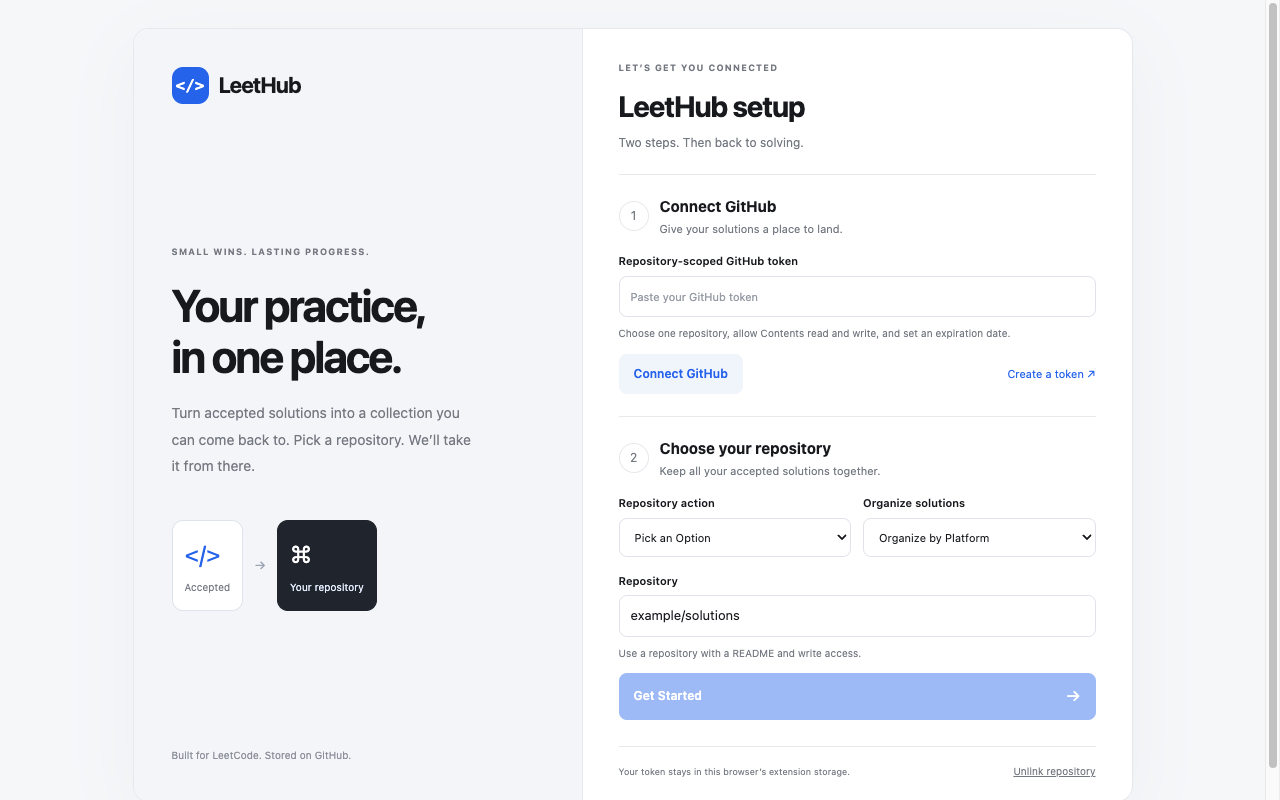
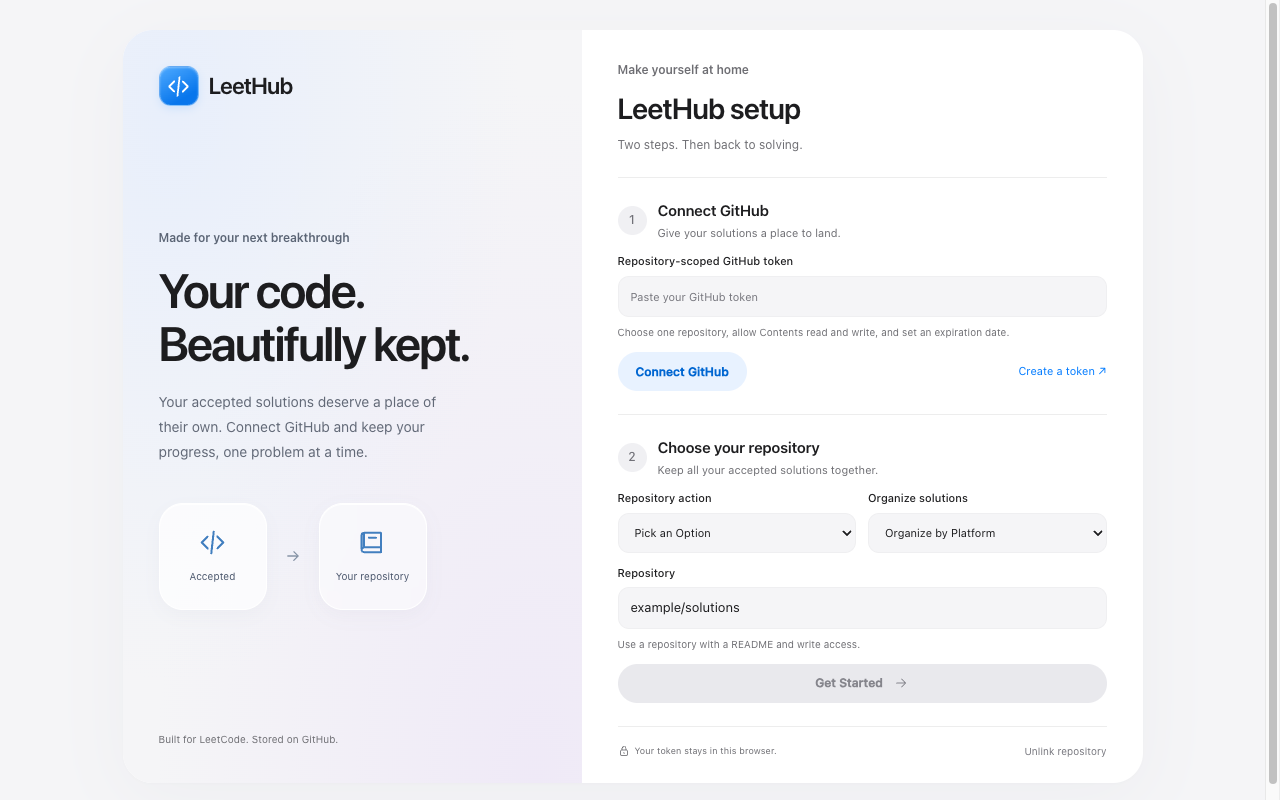
feat: refine Apple-inspired UI and verify live submission sync

diff --git a/src/css/app.css b/src/css/app.css
@@ -1,77 +1,51 @@
 @charset "UTF-8";
-:root { color-scheme: light; --ink: #17191d; --muted: #747881; --line: #e6e8ec; --brand: #2563eb; --paper: #f6f7f9; --accent: #ffffff; }
+:root { color-scheme: light; --ink: #1d1d1f; --muted: #6e6e73; --line: rgba(0,0,0,.07); --tint: #007aff; --surface: #fff; }
 * { box-sizing: border-box; }
-body { margin: 0; background: var(--paper); color: var(--ink); font: 13px/1.5 -apple-system, BlinkMacSystemFont, 'Segoe UI', sans-serif; }
-a { color: var(--brand); text-decoration: none; }
-a:hover { text-decoration: underline; }
-button, input, select { font: inherit; }
-button, .button-link { cursor: pointer; transition: background .15s, transform .15s; }
-button:disabled { cursor: default; opacity: .45; }
-button:focus-visible, a:focus-visible, input:focus-visible, select:focus-visible { outline: 3px solid #93b4ff; outline-offset: 3px; }
-h1, h2, h3, p { margin: 0; }
-.eyebrow { font-size: 9px; font-weight: 700; letter-spacing: 1.15px; color: var(--muted); }
-.small-muted { color: var(--muted); font-size: 11px; }
-.muted { color: var(--muted); }
+body { margin: 0; color: var(--ink); background: #f5f5f7; font: 13px/1.5 -apple-system, BlinkMacSystemFont, 'Helvetica Neue', 'Segoe UI', sans-serif; -webkit-font-smoothing: antialiased; }
+h1,h2,h3,p { margin: 0; }
+a { color: var(--tint); text-decoration: none; }a:hover { text-decoration: underline; }
+button,input,select { font: inherit; }
+button,a,input,select { -webkit-tap-highlight-color: transparent; }
+button { cursor: pointer; }button:disabled { cursor: default; }
+button:focus-visible,a:focus-visible,input:focus-visible,select:focus-visible { outline: 3px solid #007aff66; outline-offset: 3px; }
+.icon { flex-shrink: 0; vertical-align: middle; }
+.eyebrow { font-size: 12px; font-weight: 600; color: var(--muted); letter-spacing: -.1px; }
+.small-muted { font-size: 11px; color: #6e6e73; }.muted { color: var(--muted); }
 .brand { display: flex; align-items: center; gap: 10px; }
-.brand-mark { font-family: ui-monospace, SFMono-Regular, monospace; font-weight: 700; width: 37px; height: 37px; border-radius: 11px; background: var(--brand); color: var(--accent); display: grid; place-items: center; font-size: 16px; line-height: 1; }
-.brand h1 { font-size: 20px; font-weight: 750; letter-spacing: -.7px; line-height: 1.2; }
-.brand .eyebrow { font-size: 7px; letter-spacing: 1.4px; }
-.brand-row { display: flex; align-items: center; justify-content: space-between; margin-bottom: 24px; }
-.icon-button { height: 33px; width: 33px; display: grid; place-items: center; font-size: 20px; border: 1px solid var(--line); border-radius: 50%; color: var(--muted); }
-.icon-button:hover { background: #f0f3f8; text-decoration: none; }
-.popup { width: 380px; padding: 22px 22px 14px; background: #fafbfc; }
-.repository-card, .progress-card, .manual-card { border: 1px solid var(--line); border-radius: 12px; background: #fff; margin-bottom: 12px; padding: 17px; }
-.repository-card { background: #ffffff; border-color: #e6e8ec; }
+.brand-mark { width: 40px; height: 40px; border-radius: 12px; display: grid; place-items: center; color: #fff; background: linear-gradient(150deg,#4eaaff,#0876ec 75%); border: 1px solid #ffffff60; box-shadow: inset 0 1px 2px #ffffff50,0 3px 8px #007aff1c; }.brand-mark .icon { width: 25px; height: 25px; }
+.brand h1 { font-size: 21px; font-weight: 650; line-height: 1.15; letter-spacing: -.75px; }.brand-caption { display: block; font-size: 11px; margin-top: 3px; color: var(--muted); }
+.brand-row { display: flex; align-items: center; justify-content: space-between; margin-bottom: 16px; }
+.icon-button { width: 36px; height: 36px; display: grid; place-items: center; border-radius: 50%; color: #6e6e73; background: #ffffffa6; border: 1px solid #fff; box-shadow: 0 2px 8px #00000006,inset 0 1px 0 #fff; backdrop-filter: blur(16px); }.icon-button:hover { color: var(--ink); background: #fff; text-decoration: none; }.icon-button .icon { width: 18px; height: 18px; }
+.popup-window { width: 396px; padding: 8px; background: #fff; }
+.popup { width: 100%; padding: 18px 18px 12px; max-height: 584px; overflow-y: auto; border: 1px solid #00000006; border-radius: 24px; scrollbar-width: thin; scrollbar-color: #c7c7ce transparent; background: radial-gradient(ellipse at 10% -10%,#daeaff88,transparent 48%),radial-gradient(ellipse at 100% 100%,#ece5ff55,transparent 40%),#f5f5f7; }
+.popup::-webkit-scrollbar { width: 6px; }
+.popup::-webkit-scrollbar-track { background: transparent; margin-block: 22px; }
+.popup::-webkit-scrollbar-thumb { border-radius: 6px; background: #c7c7ce; }
+.repository-card,.progress-card,.manual-card { background: var(--surface); border-radius: 20px; padding: 14px; margin-bottom: 10px; box-shadow: 0 2px 8px #00000003; }
 .section-top { display: flex; align-items: center; justify-content: space-between; gap: 8px; }
-.status-badge { display: inline-flex; align-items: center; gap: 5px; border-radius: 20px; background: #f1f2f4; color: #6b7280; padding: 3px 8px; font-size: 10px; font-weight: 600; }
-.status-badge.active { background: #eff4ff; color: #2563eb; }
-.status-dot { width: 5px; height: 5px; border-radius: 50%; background: currentColor; display: inline-block; }
-.repository-name { color: var(--ink); display: block; margin: 13px 0 17px; font-size: 16px; font-weight: 650; letter-spacing: -.3px; overflow-wrap: anywhere; }
-.sync-control { border-top: 1px solid #edf0f4; padding-top: 13px; display: flex; align-items: center; justify-content: space-between; }
-.sync-control strong { font-size: 12px; }.sync-control p { color: var(--muted); font-size: 11px; margin-top: 2px; }
-.switch { display: inline-flex; position: relative; margin: 0; }
-.switch input { opacity: 0; position: absolute; width: 38px; height: 22px; margin: 0; cursor: pointer; z-index: 1; }
-.switch-track { display: block; width: 38px; height: 22px; background: #cbd0d8; border-radius: 20px; transition: background .2s; }
-.switch-track:after { content: ''; display: block; width: 16px; height: 16px; margin: 3px; background: white; border-radius: 50%; transition: transform .2s; box-shadow: 0 1px 3px #0002; }
-.switch input:checked + .switch-track { background: var(--brand); }.switch input:checked + .switch-track:after { transform: translateX(16px); }.switch input:focus-visible + .switch-track { outline: 3px solid #93b4ff; outline-offset: 3px; }
-.total { display: flex; align-items: baseline; gap: 9px; margin: 12px 0 16px; }.total strong { font-size: 38px; line-height: 1; font-weight: 600; letter-spacing: -2px; }.total span { color: var(--muted); font-size: 12px; }
-.difficulty-grid { display: grid; grid-template-columns: repeat(3,1fr); gap: 8px; }.difficulty { border-radius: 9px; padding: 8px 11px; display: flex; align-items: center; justify-content: space-between; font-size: 10px; }.difficulty strong { font-size: 15px; font-weight: 650; }.easy { color: #585e69; background: #f5f6f8; }.medium { color: #585e69; background: #f5f6f8; }.hard { color: #585e69; background: #f5f6f8; }
-.manual-card h2 { font-size: 14px; font-weight: 650; }.manual-card .muted { font-size: 11px; margin-top: 3px; }
-label { display: block; font-size: 11px; font-weight: 600; margin: 16px 0 6px; }
-input:not([type=checkbox]), select { width: 100%; min-height: 39px; border: 1px solid #e0e3e9; background: #ffffff; color: var(--ink); padding: 10px 11px; border-radius: 8px; outline: none; }
-input::placeholder { color: #969aa4; font-size: 11px; }input:focus, select:focus { border-color: #2563eb; background: #fff; }
-.primary, .secondary { border: 0; border-radius: 8px; padding: 11px 15px; font-weight: 600; font-size: 12px; display: inline-flex; align-items: center; justify-content: space-between; gap: 16px; }
-.primary { min-height: 42px; color: white; background: var(--brand); }.primary:hover:not(:disabled) { background: #1d4ed8; text-decoration: none; }.primary span { font-size: 17px; font-weight: 400; }.full-width { width: 100%; margin-top: 12px; }.secondary { background: #f0f4fb; color: var(--brand); }.secondary:hover:not(:disabled) { background: #e4edff; }
-.field-hint { font-size: 10px; color: var(--muted); margin-top: 8px; line-height: 1.6; }
-.latest-link { display: flex; justify-content: space-between; align-items: center; padding: 7px 4px; font-size: 11px; }.success-icon { margin-right: 7px; }
-.feedback { display: none; }.feedback.visible, .feedback.error { display: block; margin-top: 12px; border-radius: 8px; padding: 10px 12px; background: #f0f4fb; color: var(--brand); font-size: 11px; overflow-wrap: anywhere; }.feedback.error { background: #fff3f3; color: #b42332; }
-.popup-footer { font-size: 9px; color: #9499a3; display: flex; gap: 6px; align-items: center; justify-content: center; border-top: 1px solid var(--line); margin-top: 18px; padding-top: 12px; }
-.empty-state { text-align: center; padding: 20px 6px 30px; }.empty-state h2 { font-size: 27px; line-height: 1.2; letter-spacing: -1px; margin: 12px 0; }.empty-state p { font-size: 12px; color: var(--muted); line-height: 1.8; }.empty-state .button-link { margin: 24px 0 14px; width: 100%; }.empty-state > .small-muted { display: block; }
-.code-art { width: 100px; height: 106px; margin: 0 auto 27px; transform: rotate(-7deg); border: 1px solid #dce3ef; border-radius: 13px; background: #edf3ff; padding: 15px; box-shadow: 8px 8px 0 #e4e9f3; text-align: left; }.code-art span { font-size: 26px; font-weight: 600; color: var(--brand); }.art-line { height: 4px; background: #a9c1f4; border-radius: 5px; margin-top: 8px; }.art-line.short { width: 60%; }
-.welcome { display: grid; grid-template-columns: .9fr 1.1fr; max-width: 1000px; margin: 48px auto; border: 1px solid var(--line); border-radius: 16px; overflow: hidden; background: #fff; box-shadow: 0 18px 70px #14274b0a; }
-.welcome-story { border-right: 1px solid var(--line); padding: 38px; display: flex; flex-direction: column; background: #f4f5f8; }.welcome-story .brand strong { font-size: 22px; letter-spacing: -.8px; }.story-content { margin: auto 0; padding: 68px 0; }.story-content h1 { font-size: 45px; font-weight: 650; letter-spacing: -2px; line-height: 1.15; margin: 18px 0; }.story-content p { font-size: 14px; color: #747881; line-height: 1.9; max-width: 300px; }.story-footnote { color: #8b909b; font-size: 10px; }
-.flow-preview { display: flex; align-items: center; gap: 11px; margin-top: 40px; }.flow-source, .flow-destination { border: 1px solid #dfe3eb; background: #ffffff; border-radius: 11px; padding: 15px 12px; font-size: 10px; color: #747881; }.flow-source span, .flow-destination span { display: block; font-size: 24px; margin-bottom: 8px; color: var(--brand); }.flow-destination { background: #20242c; border-color: #20242c; color: #e6edff; }.flow-destination span { color: #ffffff; }.flow-arrow { color: #9aa3b3; }
-.setup-panel { padding: 38px 38px 25px; }.setup-header h2 { font-size: 29px; letter-spacing: -1px; margin: 8px 0 6px; }.setup-header p { font-size: 12px; }.setup-step { margin-top: 27px; padding-top: 24px; border-top: 1px solid var(--line); }.step-heading { display: flex; align-items: center; gap: 11px; }.step-heading h3 { font-size: 15px; }.step-heading p { font-size: 11px; color: var(--muted); margin-top: 3px; }.step-heading .status-badge { margin-left: auto; font-size: 9px; }.step-number { flex-shrink: 0; width: 30px; height: 30px; border: 1px solid var(--line); border-radius: 50%; display: grid; place-items: center; font-size: 12px; color: #747881; }.step-number.complete { background: #eff4ff; color: var(--brand); border-color: #dce7ff; }
-.auth-actions { display: flex; justify-content: space-between; align-items: center; gap: 8px; margin-top: 13px; }.auth-actions a { font-size: 11px; }.setup-fields { display: grid; grid-template-columns: 1fr 1fr; gap: 12px; }.setup-fields select { font-size: 11px; }.setup-footer { display: flex; justify-content: space-between; align-items: center; gap: 14px; border-top: 1px solid var(--line); margin-top: 26px; padding-top: 17px; font-size: 9px; color: var(--muted); }.text-button { background: none; border: none; color: var(--muted); padding: 0; font-size: 10px; text-decoration: underline; }
-@media (max-width: 760px) { .welcome { margin: 16px; grid-template-columns: 1fr; }.welcome-story { border-right: 1px solid var(--line); padding: 24px; }.story-content { padding: 25px 0; }.story-content h1 { font-size: 34px; }.flow-preview, .story-footnote { display: none; }.setup-panel { padding: 25px; } }
+.status-badge { display: inline-flex; gap: 5px; align-items: center; color: #6e6e73; font-size: 11px; font-weight: 500; padding: 3px 8px; background: #f5f5f7; border-radius: 20px; }.status-badge.active { color: #277b45; background: #edf8f0; }.status-dot { width: 5px; height: 5px; border-radius: 50%; background: currentColor; display: inline-block; }
+.repository-name { color: var(--ink); display: flex; align-items: center; gap: 10px; margin: 10px 0; font-size: 14px; font-weight: 550; letter-spacing: -.3px; }.repository-name > span { min-width: 0; overflow-wrap: anywhere; }.repository-name > .icon { color: #8e8e93; width: 18px; height: 18px; }.repository-name .repository-arrow { width: 14px; height: 14px; margin-left: auto; transform: rotate(-45deg); }
+.sync-control { border-top: 1px solid var(--line); padding-top: 12px; display: flex; align-items: center; justify-content: space-between; gap: 8px; }.sync-control strong { font-weight: 500; font-size: 12px; }.sync-control p { color: var(--muted); font-size: 10px; margin-top: 2px; }
+.switch { display: inline-flex; position: relative; margin: 0; }.switch input { opacity: 0; position: absolute; z-index: 1; width: 38px; height: 23px; margin: 0; cursor: pointer; }.switch-track { width: 38px; height: 23px; border-radius: 30px; background: #d5d5da; box-shadow: inset 0 1px 2px #00000009; transition: background .2s; }.switch-track:after { content: ''; display: block; width: 19px; height: 19px; margin: 2px; border-radius: 50%; background: #fff; box-shadow: 0 1px 4px #0002; transition: transform .2s; }.switch input:checked + .switch-track { background: #34c759; }.switch input:checked + .switch-track:after { transform: translateX(15px); }.switch input:focus-visible + .switch-track { outline: 3px solid #007aff66; outline-offset: 3px; }
+.progress-card { padding-bottom: 14px; }.total { display: flex; align-items: baseline; gap: 9px; margin: 7px 0 10px; }.total strong { font-size: 40px; line-height: 1.1; font-weight: 600; letter-spacing: -2px; font-variant-numeric: tabular-nums; }.total span { font-size: 12px; color: var(--muted); }
+.difficulty-grid { display: grid; grid-template-columns: repeat(3,1fr); }.difficulty { display: flex; flex-direction: column-reverse; gap: 2px; padding: 0 12px; border-left: 1px solid var(--line); }.difficulty:first-child { border: none; padding-left: 0; }.difficulty span { font-size: 10px; color: var(--muted); }.difficulty strong { font-size: 18px; line-height: 1.3; font-weight: 550; font-variant-numeric: tabular-nums; }
+.manual-card h2 { font-size: 15px; letter-spacing: -.3px; font-weight: 600; }.manual-card .muted { font-size: 11px; margin-top: 3px; }
+label { display: block; font-size: 11px; font-weight: 500; margin: 12px 0 6px; }
+input:not([type=checkbox]),select { display: block; width: 100%; min-height: 40px; border: 1px solid #00000006; border-radius: 11px; background: #f5f5f7; color: var(--ink); padding: 10px 12px; outline: none; transition: box-shadow .15s; }input::placeholder { font-size: 11px; color: #76767d; }input:focus,select:focus { box-shadow: 0 0 0 3px #007aff1a; border-color: #007aff70; }select { appearance: auto; }
+.primary,.secondary { display: inline-flex; justify-content: center; align-items: center; gap: 10px; border: none; border-radius: 24px; padding: 10px 18px; min-height: 39px; font-size: 12px; font-weight: 550; transition: background .15s,box-shadow .15s; }
+.primary { background: var(--tint); color: #fff; box-shadow: inset 0 1px 0 #ffffff30,0 2px 5px #007aff14; }.primary:hover:not(:disabled) { background: #0071e3; text-decoration: none; }.primary:disabled { color: #85858c; background: #e9e9ed; box-shadow: none; }.primary .icon { width: 16px; height: 16px; }.secondary { background: #e8f2ff; color: #0066d1; }.secondary:hover:not(:disabled) { background: #dbebff; }.secondary:disabled { opacity: .5; }.full-width { width: 100%; margin-top: 12px; }
+.field-hint { font-size: 10px; line-height: 1.6; color: var(--muted); margin-top: 7px; }
+.latest-link { display: flex; justify-content: space-between; align-items: center; font-size: 11px; padding: 4px 6px; }.latest-link > span { display: flex; align-items: center; gap: 6px; }.latest-link .icon { width: 15px; height: 15px; }.latest-link > .icon { transform: rotate(-45deg); }
+.feedback { display: none; }.feedback.visible,.feedback.error { display: block; padding: 11px 13px; margin-top: 12px; border-radius: 12px; font-size: 11px; color: #235c92; background: #e7f2ff; overflow-wrap: anywhere; }.feedback.error { color: #a33132; background: #fff0f0; }
+.popup-footer { display: flex; align-items: center; justify-content: center; gap: 5px; margin-top: 10px; font-size: 9px; color: var(--muted); }.popup-footer .icon { width: 10px; height: 10px; }
+.empty-state { text-align: center; padding: 20px 6px 26px; }.empty-state h2 { font-size: 28px; line-height: 1.2; letter-spacing: -1px; font-weight: 600; margin: 14px 0; }.empty-state p { color: var(--muted); font-size: 12px; line-height: 1.8; }.empty-state .button-link { display: flex; margin: 24px 0 12px; }.empty-state > .small-muted { display: block; }
+.code-art { width: 98px; height: 102px; padding: 17px; margin: 0 auto 24px; border-radius: 23px; color: var(--tint); background: linear-gradient(145deg,#ffffffd9,#edf4ffb3); border: 1px solid #fff; box-shadow: 0 8px 24px #17477812,inset 0 1px 0 #fff; }.code-art .icon { width: 32px; height: 32px; }.art-line { width: 100%; height: 4px; border-radius: 5px; background: #bfcfe3; margin-top: 8px; }.art-line.short { width: 60%; }
+.welcome { max-width: 1020px; display: grid; grid-template-columns: .9fr 1.1fr; margin: 30px auto; background: #fff; border-radius: 30px; overflow: hidden; box-shadow: 0 16px 70px #20305009,0 1px 3px #00000003; }
+.welcome-story { padding: 36px; display: flex; flex-direction: column; background: radial-gradient(ellipse at 10% 10%,#dce9ff85,transparent 60%),radial-gradient(ellipse at 90% 100%,#e9def780,transparent 65%),#f5f5f7; }.welcome-story .brand strong { font-size: 23px; font-weight: 600; letter-spacing: -.8px; }.story-content { margin: auto 0; padding: 60px 0; }.story-content .eyebrow { font-size: 12px; color: #5b6575; }.story-content h1 { font-size: 48px; font-weight: 600; line-height: 1.09; letter-spacing: -2.1px; margin: 17px 0 20px; }.story-content p { color: #626977; font-size: 14px; line-height: 1.8; max-width: 310px; }.story-footnote { color: var(--muted); font-size: 10px; }
+.flow-preview { display: flex; align-items: center; gap: 17px; margin-top: 38px; }.flow-source,.flow-destination { width: 108px; height: 107px; display: flex; flex-direction: column; justify-content: center; align-items: center; gap: 12px; color: #49556b; font-size: 10px; border-radius: 24px; background: #ffffffb0; border: 1px solid #fff; box-shadow: inset 0 1px 0 #fff,0 6px 18px #5060800a; }.flow-preview .icon:not(.flow-arrow) { width: 29px; height: 29px; color: #427fbf; }.flow-arrow { color: #8794a6; width: 18px; height: 18px; }.flow-destination { background: #ffffff78; backdrop-filter: blur(15px); }
+.setup-panel { padding: 30px 36px 24px; min-width: 0; }.setup-header h2 { font-size: 29px; font-weight: 600; letter-spacing: -.85px; margin: 7px 0 6px; }.setup-header p { font-size: 12px; }.setup-step { border-top: 1px solid var(--line); margin-top: 23px; padding-top: 21px; }.step-heading { display: flex; align-items: center; gap: 11px; }.step-heading h3 { font-size: 15px; font-weight: 600; letter-spacing: -.25px; }.step-heading p { font-size: 11px; color: var(--muted); margin-top: 3px; }.step-heading .status-badge { margin-left: auto; font-size: 9px; }.step-number { flex-shrink: 0; width: 29px; height: 29px; display: grid; place-items: center; background: #f0f0f3; color: #717178; border-radius: 50%; font-size: 12px; font-weight: 500; }.step-number.complete { color: #267e43; background: #edf8f0; }
+.auth-actions { display: flex; align-items: center; justify-content: space-between; gap: 12px; margin-top: 12px; }.auth-actions a { font-size: 11px; }.setup-fields { display: grid; grid-template-columns: 1fr 1fr; gap: 12px; }.setup-fields > div { min-width: 0; }.setup-fields select { font-size: 11px; }.setup-footer { display: flex; align-items: center; justify-content: space-between; flex-wrap: wrap; gap: 13px; margin-top: 23px; padding-top: 17px; border-top: 1px solid var(--line); color: var(--muted); font-size: 9px; }.setup-footer > span { display: flex; gap: 5px; align-items: center; }.setup-footer .icon { width: 12px; height: 12px; }.text-button { padding: 0; background: none; border: none; color: #76767d; font-size: 10px; }.text-button:hover { color: #333; }
+@media (max-width: 760px) { .welcome { margin: 16px; grid-template-columns: 1fr; border-radius: 24px; }.welcome-story { padding: 25px; }.story-content { padding: 25px 0; }.story-content h1 { font-size: 36px; }.flow-preview,.story-footnote { display: none; }.setup-panel { padding: 25px; } }
 @media (prefers-reduced-motion: reduce) { * { transition: none !important; } }
-
-.difficulty { border: 1px solid #eceef2; }.difficulty span::before { content: ""; display: inline-block; width: 4px; height: 4px; border-radius: 50%; background: #bcc3cf; margin-right: 5px; }.medium span::before { background: #7c8799; }.hard span::before { background: #394355; }
-.setup-footer { flex-wrap: wrap; }.setup-panel { min-width: 0; }.welcome-story { min-width: 0; }.setup-fields > div { min-width: 0; }
-
-/* Keep the complete connected view within Chrome's popup height limit. */
-.popup { padding: 18px 20px 12px; }
-.popup .brand-row { margin-bottom: 18px; }
-.popup .repository-card, .popup .progress-card, .popup .manual-card { padding: 14px; margin-bottom: 10px; }
-.popup .repository-name { margin: 10px 0 12px; }
-.popup .sync-control { padding-top: 10px; }
-.popup .total { margin: 9px 0 12px; }
-.popup .total strong { font-size: 32px; }
-.popup .difficulty { padding: 7px 10px; }
-.popup label:not(.switch) { margin-top: 12px; }
-.popup .primary { padding: 8px 13px; min-height: 38px; }
-.popup .popup-footer { margin-top: 12px; padding-top: 9px; }
-.welcome { margin: 28px auto; }
-.setup-panel { padding: 28px 36px 22px; }
-.setup-step { margin-top: 22px; padding-top: 20px; }
-@media (max-width: 760px) { .welcome { margin: 16px; }.setup-panel { padding: 25px; } }
+@media (prefers-reduced-transparency: reduce) { .icon-button,.code-art,.flow-source,.flow-destination { backdrop-filter: none; background: #fff; } }
+@media (prefers-contrast: more) { :root { --muted: #47474c; --line: #0003; }.small-muted,.field-hint,.popup-footer { color: #47474c; }.repository-card,.progress-card,.manual-card { border: 1px solid #0003; } }

diff --git a/src/components/Popup.tsx b/src/components/Popup.tsx
@@ -2,6 +2,7 @@ import React, { useEffect, useState } from 'react'
 import browser from 'webextension-polyfill'
 import { WELCOME_URL } from '../constants/Url'
 import { Stats } from '../types/Stats'
+import Icon from './Icon'
 import { emptyStats } from '../scripts/storage'
 
 const Popup: React.FC = () => {
@@ -31,14 +32,14 @@ const Popup: React.FC = () => {
   const enabled = data.bjhEnable === true
   return <main className='popup'>
     <header className='brand-row'>
-      <div className='brand'><span className='brand-mark' aria-hidden='true'>&lt;/&gt;</span><div><h1>LeetHub</h1><span className='eyebrow'>YOUR CODE, COLLECTED.</span></div></div>
-      <a className='icon-button' href={WELCOME_URL} aria-label='Repository settings / reconnect' title='Settings' target='_blank' rel='noopener noreferrer'>⚙</a>
+      <div className='brand'><span className='brand-mark'><Icon name='code' /></span><div><h1>LeetHub</h1><span className='brand-caption'>LeetCode → GitHub</span></div></div>
+      <a className='icon-button' href={WELCOME_URL} aria-label='Repository settings / reconnect' title='Settings' target='_blank' rel='noopener noreferrer'><Icon name='settings' /></a>
     </header>
     {data.leethub_hook ? <>
       <section className='repository-card'>
-        <div className='section-top'><span className='eyebrow'>CONNECTED REPOSITORY</span><span className={`status-badge ${enabled ? 'active' : ''}`}><span className='status-dot' />{enabled ? 'Active' : 'Paused'}</span></div>
-        <a className='repository-name' href={`https://github.com/${data.leethub_hook}`} target='_blank' rel='noopener noreferrer'>{data.leethub_hook}</a>
-        <div className='sync-control'><div><strong>Auto upload</strong><p>Save your next accepted solution.</p></div>
+        <div className='section-top'><span className='eyebrow'>Repository</span><span className={`status-badge ${enabled ? 'active' : ''}`}><span className='status-dot' />{enabled ? 'Active' : 'Paused'}</span></div>
+        <a className='repository-name' href={`https://github.com/${data.leethub_hook}`} target='_blank' rel='noopener noreferrer'><Icon name='repository' /><span>{data.leethub_hook}</span><Icon name='arrow' className='repository-arrow' /></a>
+        <div className='sync-control'><div><strong>Auto upload</strong><p>Sync accepted solutions automatically.</p></div>
           <label className='switch'><input type='checkbox' aria-label='Enable auto upload' checked={enabled} onChange={async event => {
             try { await browser.storage.local.set({ bjhEnable: event.target.checked }) }
             catch { setMessage('Could not save auto-upload setting.') }
@@ -46,28 +47,28 @@ const Popup: React.FC = () => {
         </div>
       </section>
       <section className='progress-card'>
-        <div className='section-top'><span className='eyebrow'>YOUR COLLECTION</span><span className='small-muted'>This repository</span></div>
+        <div className='section-top'><span className='eyebrow'>Your progress</span><span className='small-muted'>All time</span></div>
         <div className='total'><strong>{problems.length}</strong><span>problems synced</span></div>
         <div className='difficulty-grid'>{['Easy', 'Medium', 'Hard'].map(level => <div className={`difficulty ${level.toLowerCase()}`} key={level}><span>{level}</span><strong>{problems.filter(problem => problem.difficulty === level).length}</strong></div>)}</div>
       </section>
       <section className='manual-card'>
-        <h2>Add to your collection</h2><p className='muted'>Bring an older accepted solution with you.</p>
+        <h2>Sync a submission</h2><p className='muted'>Add a solution you’ve already accepted.</p>
         <label htmlFor='submission'>Upload an accepted submission</label>
         <input id='submission' placeholder='Submission ID or URL' value={submission} onChange={event => setSubmission(event.target.value)} />
-        <button className='primary full-width' disabled={busy || !enabled || !submission.trim()} onClick={upload}>{busy ? 'Uploading…' : 'Upload submission'}<span aria-hidden='true'>↗</span></button>
+        <button className='primary full-width' disabled={busy || !enabled || !submission.trim()} onClick={upload}>{busy ? 'Uploading…' : 'Upload submission'}<Icon name='arrow' /></button>
         {!enabled && <p className='field-hint'>Turn on auto upload to upload a submission.</p>}
       </section>
-      {data.lastUpload && <a className='latest-link' href={data.lastUpload.url} target='_blank' rel='noopener noreferrer'><span><span className='success-icon' aria-hidden='true'>✓</span>View latest solution</span><span aria-hidden='true'>↗</span></a>}
+      {data.lastUpload && <a className='latest-link' href={data.lastUpload.url} target='_blank' rel='noopener noreferrer'><span><Icon name='check' className='success-icon' />View latest solution</span><Icon name='arrow' /></a>}
     </> : <section className='empty-state'>
-      <div className='code-art' aria-hidden='true'><span>&lt;/&gt;</span><div className='art-line' /><div className='art-line short' /><div className='art-line' /></div>
-      <span className='eyebrow'>SOLVE. SYNC. KEEP GOING.</span>
-      <h2>A home for every<br />accepted solution.</h2><p>Connect a repository once.<br />Let your LeetCode work find its way to GitHub.</p>
-      <a className='primary button-link' href={WELCOME_URL} target='_blank' rel='noopener noreferrer'>{data.leethub_token ? 'Choose a repository' : 'Connect GitHub'}<span aria-hidden='true'>→</span></a>
+      <div className='code-art' aria-hidden='true'><Icon name='code' /><div className='art-line' /><div className='art-line short' /><div className='art-line' /></div>
+      <span className='eyebrow'>Your solutions, together</span>
+      <h2>A little practice.<br />A lasting collection.</h2><p>Connect a repository once.<br />Let your LeetCode work find its way to GitHub.</p>
+      <a className='primary button-link' href={WELCOME_URL} target='_blank' rel='noopener noreferrer'>{data.leethub_token ? 'Choose a repository' : 'Connect GitHub'}<Icon name='arrow' /></a>
       <span className='small-muted'>Your repository. Your code.</span>
     </section>}
     {data.lastError && <p className='feedback error' role='alert'>{data.lastError}</p>}
     <p className={`feedback ${message ? 'visible' : ''}`} role='status'>{message}</p>
-    <footer className='popup-footer'><span className='status-dot' />Made for the next Accepted.</footer>
+    <footer className='popup-footer'><Icon name='lock' />Stored in your GitHub repository</footer>
   </main>
 }
 export default Popup

diff --git a/src/components/Welcome.tsx b/src/components/Welcome.tsx
@@ -1,5 +1,6 @@
 import React, { useEffect, useState } from 'react'
 import browser from 'webextension-polyfill'
+import Icon from './Icon'
 import { githubRequest } from '../scripts/github'
 import { createRepo, linkRepo } from '../scripts/welcome'
 
@@ -56,13 +57,13 @@ const Welcome: React.FC = () => {
   }
   return <main className='welcome'>
     <aside className='welcome-story'>
-      <div className='brand'><span className='brand-mark' aria-hidden='true'>&lt;/&gt;</span><strong>LeetHub</strong></div>
-      <div className='story-content'><span className='eyebrow'>SMALL WINS. LASTING PROGRESS.</span><h1>Your practice,<br />in one place.</h1><p>Turn accepted solutions into a collection you can come back to. Pick a repository. We’ll take it from there.</p>
-        <div className='flow-preview' aria-hidden='true'><div className='flow-source'><span>&lt;/&gt;</span>Accepted</div><span className='flow-arrow'>→</span><div className='flow-destination'><span>⌘</span>Your repository</div></div>
+      <div className='brand'><span className='brand-mark'><Icon name='code' /></span><strong>LeetHub</strong></div>
+      <div className='story-content'><span className='eyebrow'>Made for your next breakthrough</span><h1>Your code.<br />Beautifully kept.</h1><p>Your accepted solutions deserve a place of their own. Connect GitHub and keep your progress, one problem at a time.</p>
+        <div className='flow-preview' aria-hidden='true'><div className='flow-source'><Icon name='code' />Accepted</div><Icon name='arrow' className='flow-arrow' /><div className='flow-destination'><Icon name='repository' />Your repository</div></div>
       </div><span className='story-footnote'>Built for LeetCode. Stored on GitHub.</span>
     </aside>
     <div className='setup-panel'>
-      <header className='setup-header'><span className='eyebrow'>LET’S GET YOU CONNECTED</span><h2>LeetHub setup</h2><p className='muted'>Two steps. Then back to solving.</p></header>
+      <header className='setup-header'><span className='eyebrow'>Make yourself at home</span><h2>LeetHub setup</h2><p className='muted'>Two steps. Then back to solving.</p></header>
       <section className='setup-step'>
         <div className='step-heading'><span className={`step-number ${connected ? 'complete' : ''}`}>{connected ? '✓' : '1'}</span><div><h3>Connect GitHub</h3><p>{connected ? 'Connected. You can replace your token here.' : 'Give your solutions a place to land.'}</p></div>{connected && <span className='status-badge active'>Connected</span>}</div>
         <label htmlFor='access-token'>Repository-scoped GitHub token</label>
@@ -76,10 +77,10 @@ const Welcome: React.FC = () => {
           <div><label htmlFor='organization'>Organize solutions</label><select id='organization' value={orgOption} onChange={event => setOrgOption(event.target.value)}><option value='platform'>Organize by Platform</option><option value='language'>Organize by Language</option></select></div></div>
         <label htmlFor='repository'>Repository</label><input id='repository' placeholder='Repository Name or owner/repository' value={repository} onChange={event => setRepository(event.target.value)} />
         <p className='field-hint'>{repOption === 'new' ? 'Creating a repository requires additional GitHub permission. Linking an existing initialized repository is recommended.' : 'Use a repository with a README and write access.'}</p>
-        <button className='primary full-width' disabled={busy || !repository.trim() || !repOption} onClick={connectRepository}>Get Started<span aria-hidden='true'>→</span></button>
+        <button className='primary full-width' disabled={busy || !repository.trim() || !repOption} onClick={connectRepository}>Get Started<Icon name='arrow' /></button>
       </section>
       <p className={`feedback ${message ? 'visible' : ''}`} role='status'>{message}</p>
-      <div className='setup-footer'><span>Your token stays in this browser’s extension storage.</span><button className='text-button' disabled={busy} onClick={unlink}>Unlink repository</button></div>
+      <div className='setup-footer'><span><Icon name='lock' />Your token stays in this browser.</span><button className='text-button' disabled={busy} onClick={unlink}>Unlink repository</button></div>
     </div>
   </main>
 }

diff --git a/src/components/Icon.tsx b/src/components/Icon.tsx
@@ -1,0 +1,14 @@
+import React from 'react'
+
+type IconName = 'code' | 'settings' | 'arrow' | 'repository' | 'check' | 'lock'
+const paths: Record<IconName, React.ReactNode> = {
+  code: <><path d="m8 7-5 5 5 5m8-10 5 5-5 5m-3-14-2 18" /></>,
+  settings: <><path d="m9 3-.6 2.2-1.9 1.1-2.2-.6-2 3.4 1.6 1.6v2.2l-1.6 1.6 2 3.4 2.2-.6 1.9 1.1L9 21h4l.6-2.2 1.9-1.1 2.2.6 2-3.4-1.6-1.6v-2.2l1.6-1.6-2-3.4-2.2.6-1.9-1.1L13 3Z" /><circle cx="11" cy="12" r="3" /></>,
+  arrow: <><path d="M5 12h14m-6-6 6 6-6 6" /></>,
+  repository: <><path d="M5 4h14v16H5a2 2 0 0 1-2-2V6a2 2 0 0 1 2-2Zm0 0v12m-2 2a2 2 0 0 1 2-2h14M9 8h6" /></>,
+  check: <path d="m5 12 4 4L19 6" />,
+  lock: <><rect x="5" y="10" width="14" height="11" rx="3" /><path d="M8 10V7a4 4 0 0 1 8 0v3m-4 5v2" /></>
+}
+export default function Icon({ name, className = '' }: { name: IconName; className?: string }) {
+  return <svg className={`icon ${className}`} width='20' height='20' viewBox='0 0 24 24' fill='none' stroke='currentColor' strokeWidth='1.7' strokeLinecap='round' strokeLinejoin='round' aria-hidden='true'>{paths[name]}</svg>
+}

diff --git a/src/scripts/background.ts b/src/scripts/background.ts
@@ -38,7 +38,7 @@ chrome.webRequest.onCompleted.addListener(details => {
   if (details.tabId < 0 || details.statusCode !== 200) return
   const id = new URL(details.url).pathname.match(/^\/submissions\/(?:detail\/)?(\d+)\/check\/?$/)?.[1]
   if (id) void enqueueSubmission(id).catch(reportError)
-}, { urls: ['https://leetcode.com/submissions/*/check/'] })
+}, { urls: ['https://leetcode.com/submissions/*/check/', 'https://leetcode.com/submissions/detail/*/check/'] })
 
 chrome.runtime.onMessage.addListener((request, sender, sendResponse) => {
   if (sender.id !== chrome.runtime.id || !sender.url) return false

diff --git a/src/popup/App/App.tsx b/src/popup/App/App.tsx
@@ -3,7 +3,7 @@ import Popup from '../../components/Popup'
 
 const App: React.FC = () => {
   return (
-    <div>
+    <div className='popup-window'>
       <Popup />
     </div>
   )

diff --git a/store/UI-UPDATE.md b/store/UI-UPDATE.md
@@ -1,7 +1,15 @@
 # Version 1.0.6 UI update
 
-The popup and setup page use white surfaces, charcoal text, restrained blue accents, and compact spacing. Repository status, automatic upload, synchronized-problem counts, and manual upload have distinct sections. Setup presents GitHub authentication and repository selection as two steps.
+The popup and setup page use Apple-inspired system typography, opaque white grouped content, cool gray backgrounds, rounded blue action buttons, and custom SVG icons. Subtle material effects are reserved for controls and decorative setup elements. Accessibility preferences have reduced-motion, reduced-transparency, and contrast fallbacks. The popup scrolls within Chrome's 600-pixel height limit when feedback is visible.
 
-The update retains the existing upload behavior and storage. Version 1.0.6 uses refreshed icons and store screenshots.
+GitHub connection and repository selection remain two explicit steps. Connected users can pause automatic uploads, view repository-scoped statistics, upload an older accepted submission, and open the latest solution.
 
-Validation: type checking, 45 automated tests, production build, and unpacked Chrome smoke tests passed. Real-browser GitHub authentication and private test repository linking succeeded. LeetCode is currently logged out in the user's browser, so a genuine accepted-submission upload remains pending login. The update must not be described as fully validated end to end until that check passes.
+Type checking, 45 automated tests, production build, and isolated unpacked Chrome smoke tests passed. Signed-in Chrome verification confirmed GitHub connection, private repository linking, an accepted Python3 Two Sum upload, exact source preservation, README creation, repeated-upload deduplication, and automatic detection of a second accepted submission without clicking the popup upload button. Pausing disabled manual upload; re-enabling restored it. These live checks cover the tested Python3 path, not every language, token expiration, branch protection, or concurrent remote client.
+
+See [live verification](../audit/LIVE-VERIFICATION.md) and [design references](DESIGN-REFERENCES.md).
+
+## Rounded popup follow-up
+
+The popup has an 8px white inset around a 24px rounded panel and a thin scrollbar. The panel scrolls within 584px so the complete popup stays within Chrome's 600px height limit. Chrome controls the native window border. The setup page keeps its independent layout.
+
[1 lines of base64/hex data omitted]

diff --git a/audit/LIVE-VERIFICATION.md b/audit/LIVE-VERIFICATION.md
@@ -1,0 +1,16 @@
+# Live integration verification
+
+Verified on October 15, 2026 with an unpacked extension in signed-in Chrome and an initialized private disposable GitHub repository. Credentials and account identifiers are omitted.
+
+- Submitted a Python3 Two Sum solution. LeetCode showed Accepted, 65/65 tests passed.
+- Used the actual popup to upload the accepted submission. GitHub received `LeetCode/0001-two-sum/Solution.py` and a problem README. The source matched the submitted code; repository-scoped statistics became one Easy problem.
+- Repeated the same upload. The popup reported that the solution was already uploaded; GitHub still contained only the initial commit and one solution commit.
+- Submitted the same correct algorithm with a verification comment. A submission-check request triggered the service worker, without clicking manual upload, and produced a second solution commit. Statistics remained one problem.
+- Reloading the extension while an older submission detail page remained open reprocessed that older accepted solution and created a further commit restoring its source. Opening historical details deliberately uploads the selected submission; it is not a latest-only history filter.
[1 lines of base64/hex data omitted]
+- Paused via the popup toggle; manual upload became disabled. Re-enabled the integration.
+- The authenticated submission-details GraphQL query worked in the actual service worker. Both submission-check URL forms are supported; the tested detail form returned HTTP 200.
+
+The tested flow validates real authentication, accepted source extraction, GitHub writes, automatic detection, deduplication, and statistics for Python3. Other languages, expired tokens, protected branches, browser restarts, and concurrent external Git writers were covered only where stated in automated tests, not by this live session. No claim is made that every possible account configuration was tested.
+
+The disposable repository is retained for review. It contains test solutions, not extension source.

diff --git a/README.md b/README.md
@@ -44,4 +44,4 @@ npm run package  # build and produce artifacts/leethub-<version>.zip
 
 The build uses esbuild to produce independent popup, content-script, and service-worker bundles. Vitest runs the existing automated checks with jsdom. This replaces the unmaintained Create React App dependency graph, including vulnerable packages without patched releases. Type checking remains a separate required CI step; esbuild does not perform type checking. The release workflow builds and attaches an extension ZIP after its verification gate. Update `public/manifest.json` when changing extension versions.
 
-See [Security](SECURITY.md), [Setup Guide](wiki/Setup-Guide.md), and [Architecture](wiki/Architecture.md). Automated checks cover API extraction, rejected requests, deduplication, conflicts, migration, setup, and popup behavior. Live LeetCode/GitHub verification still requires a signed-in browser and a disposable repository; private API schema changes may require adapter updates.
+See [Security](SECURITY.md), [Setup Guide](wiki/Setup-Guide.md), and [Architecture](wiki/Architecture.md). Automated checks cover API extraction, rejected requests, deduplication, conflicts, migration, setup, and popup behavior. The signed-in Python3 upload path was verified with a disposable repository; see [live verification](audit/LIVE-VERIFICATION.md) for evidence and limits. Private API schema changes may require adapter updates.

diff --git a/audit/FIXES.md b/audit/FIXES.md
@@ -26,8 +26,8 @@ The fixes were developed on `fix/reliable-submission-sync` against the audited s
 
 The tests cover rejected authentication, setup errors, accepted source extraction, missing/nonaccepted submissions, Unicode blob encoding, failed uploads, remote duplicates, missing README repair, conflict retries, disabled integration, migration preservation, cross-tab queueing, sender validation, safe status responses, popup navigation, and statistics.
 
-## Remaining external verification
+## Live verification
 
-A genuine signed-in LeetCode accepted submission and a disposable GitHub repository were not available for live upload testing. The private GraphQL schema and submission-check URL are external dependencies. Verify a real accepted upload, exact source bytes, token permissions, and branch protection in a signed-in browser before publishing. Live remote branches and releases were not changed.
+Signed-in Chrome verification subsequently confirmed actual accepted-submission upload, source preservation, automatic detection, and duplicate suppression. See [LIVE-VERIFICATION.md](LIVE-VERIFICATION.md) for evidence and scope. Source fixes have been integrated into main. The original baseline audit is historical.
 
 Install locally by loading `build` through `chrome://extensions` in Developer mode, then connecting an initialized repository from the popup. The ZIP can be extracted and loaded the same way.

diff --git a/store/DESIGN-REFERENCES.md b/store/DESIGN-REFERENCES.md
@@ -1,0 +1,9 @@
+# Design references
+
+The extension UI uses Apple-inspired typography, grouped content, rounded controls, restrained blue action color, and subtle material separation. It is implemented in HTML/CSS; it does not use Apple's native Liquid Glass rendering engine or proprietary symbols.
+
+References reviewed:
+- [Apple Human Interface Guidelines: Materials](https://developer.apple.com/design/human-interface-guidelines/materials), retrieved October 15, 2026. Guidance: use glass sparingly in the functional layer, maintain legibility, and keep content surfaces distinct.
+- [Apple macOS](https://www.apple.com/macos/), retrieved October 15, 2026. Reference for spacing, type hierarchy, and material restraint.
+
+Custom inline SVG symbols replace platform-dependent text glyphs. Content panels remain opaque for legibility. Subtle translucency is limited to controls and decorative setup elements. Reduced-transparency, increased-contrast, and reduced-motion preferences receive fallbacks.

diff --git a/store/PUBLISHING.md b/store/PUBLISHING.md
@@ -2,7 +2,7 @@
 
 ## Prepared package
 
-Build and package with `npm run package`. Upload `artifacts/leethub-1.0.5.zip` as a Chrome extension in the Chrome Web Store developer dashboard. All executable code is bundled locally; source maps and unrelated archived assets are excluded.
+Build and package with `npm run package`. Upload `artifacts/leethub-1.0.6.zip` as a Chrome extension in the Chrome Web Store developer dashboard. All executable code is bundled locally; source maps and unrelated archived assets are excluded.
 
 Store copy and permission explanations are in [LISTING.md](LISTING.md). The privacy policy is in [PRIVACY.md](../PRIVACY.md). Graphic assets are in `store/assets`.
 
